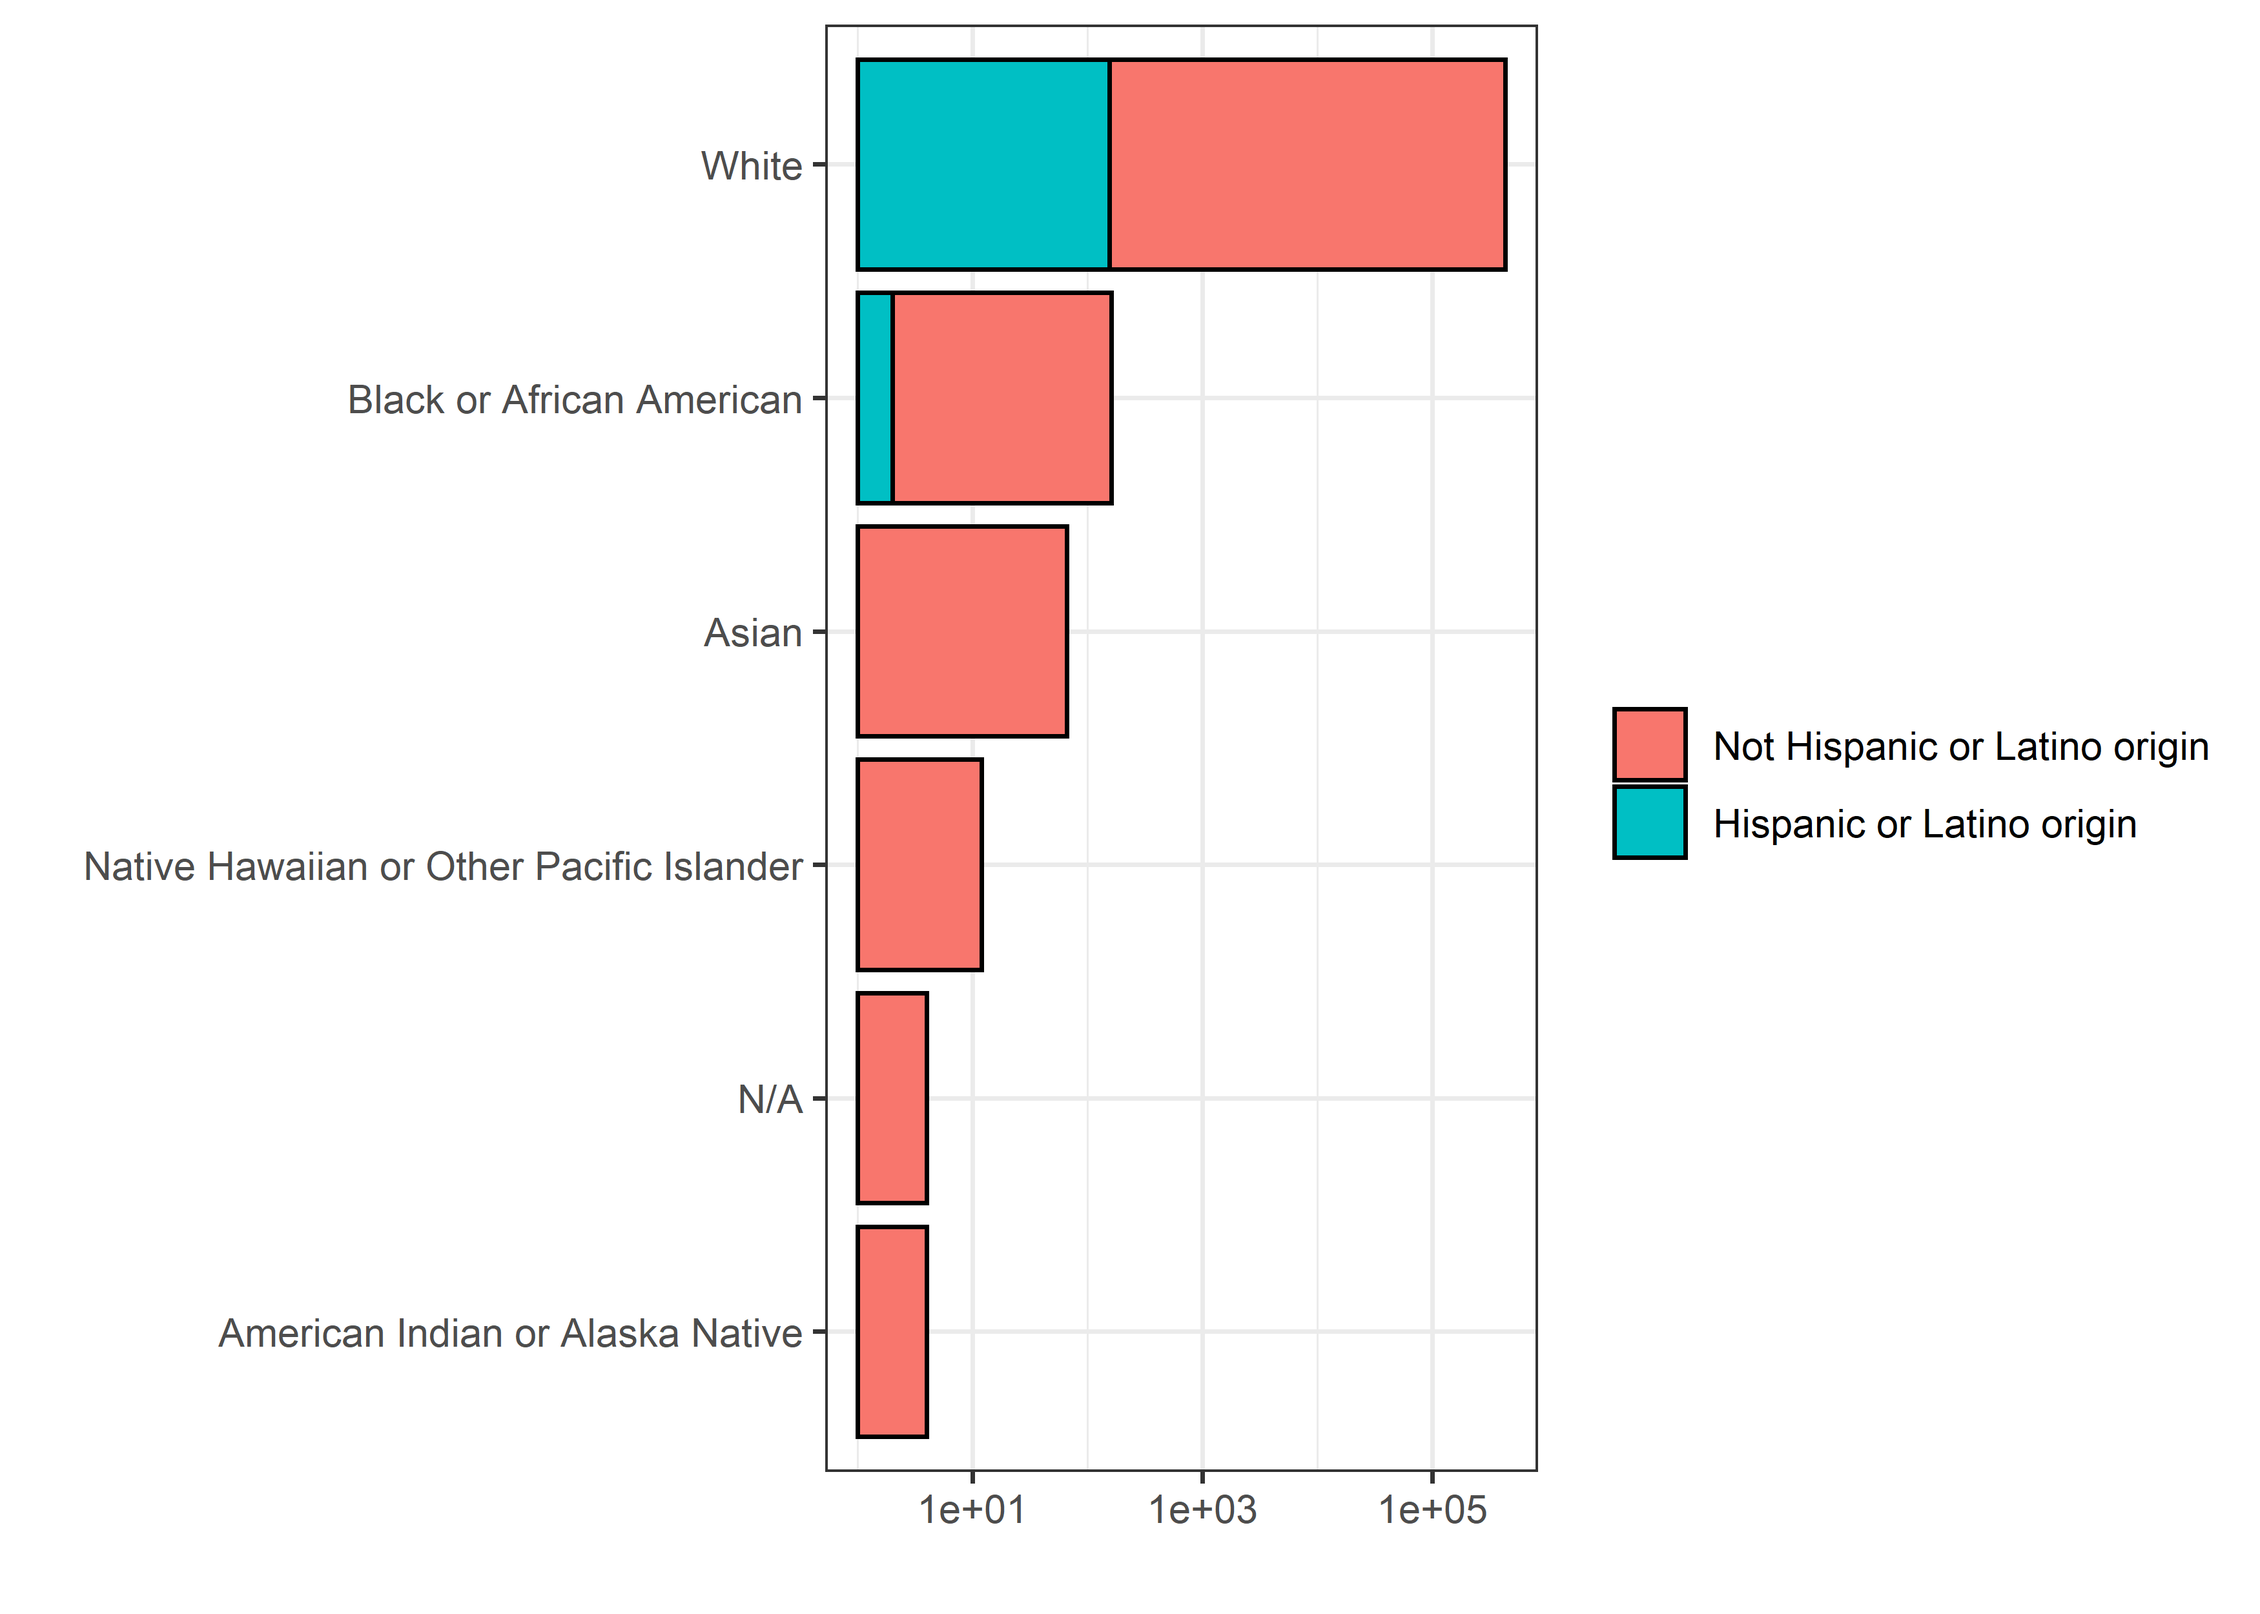
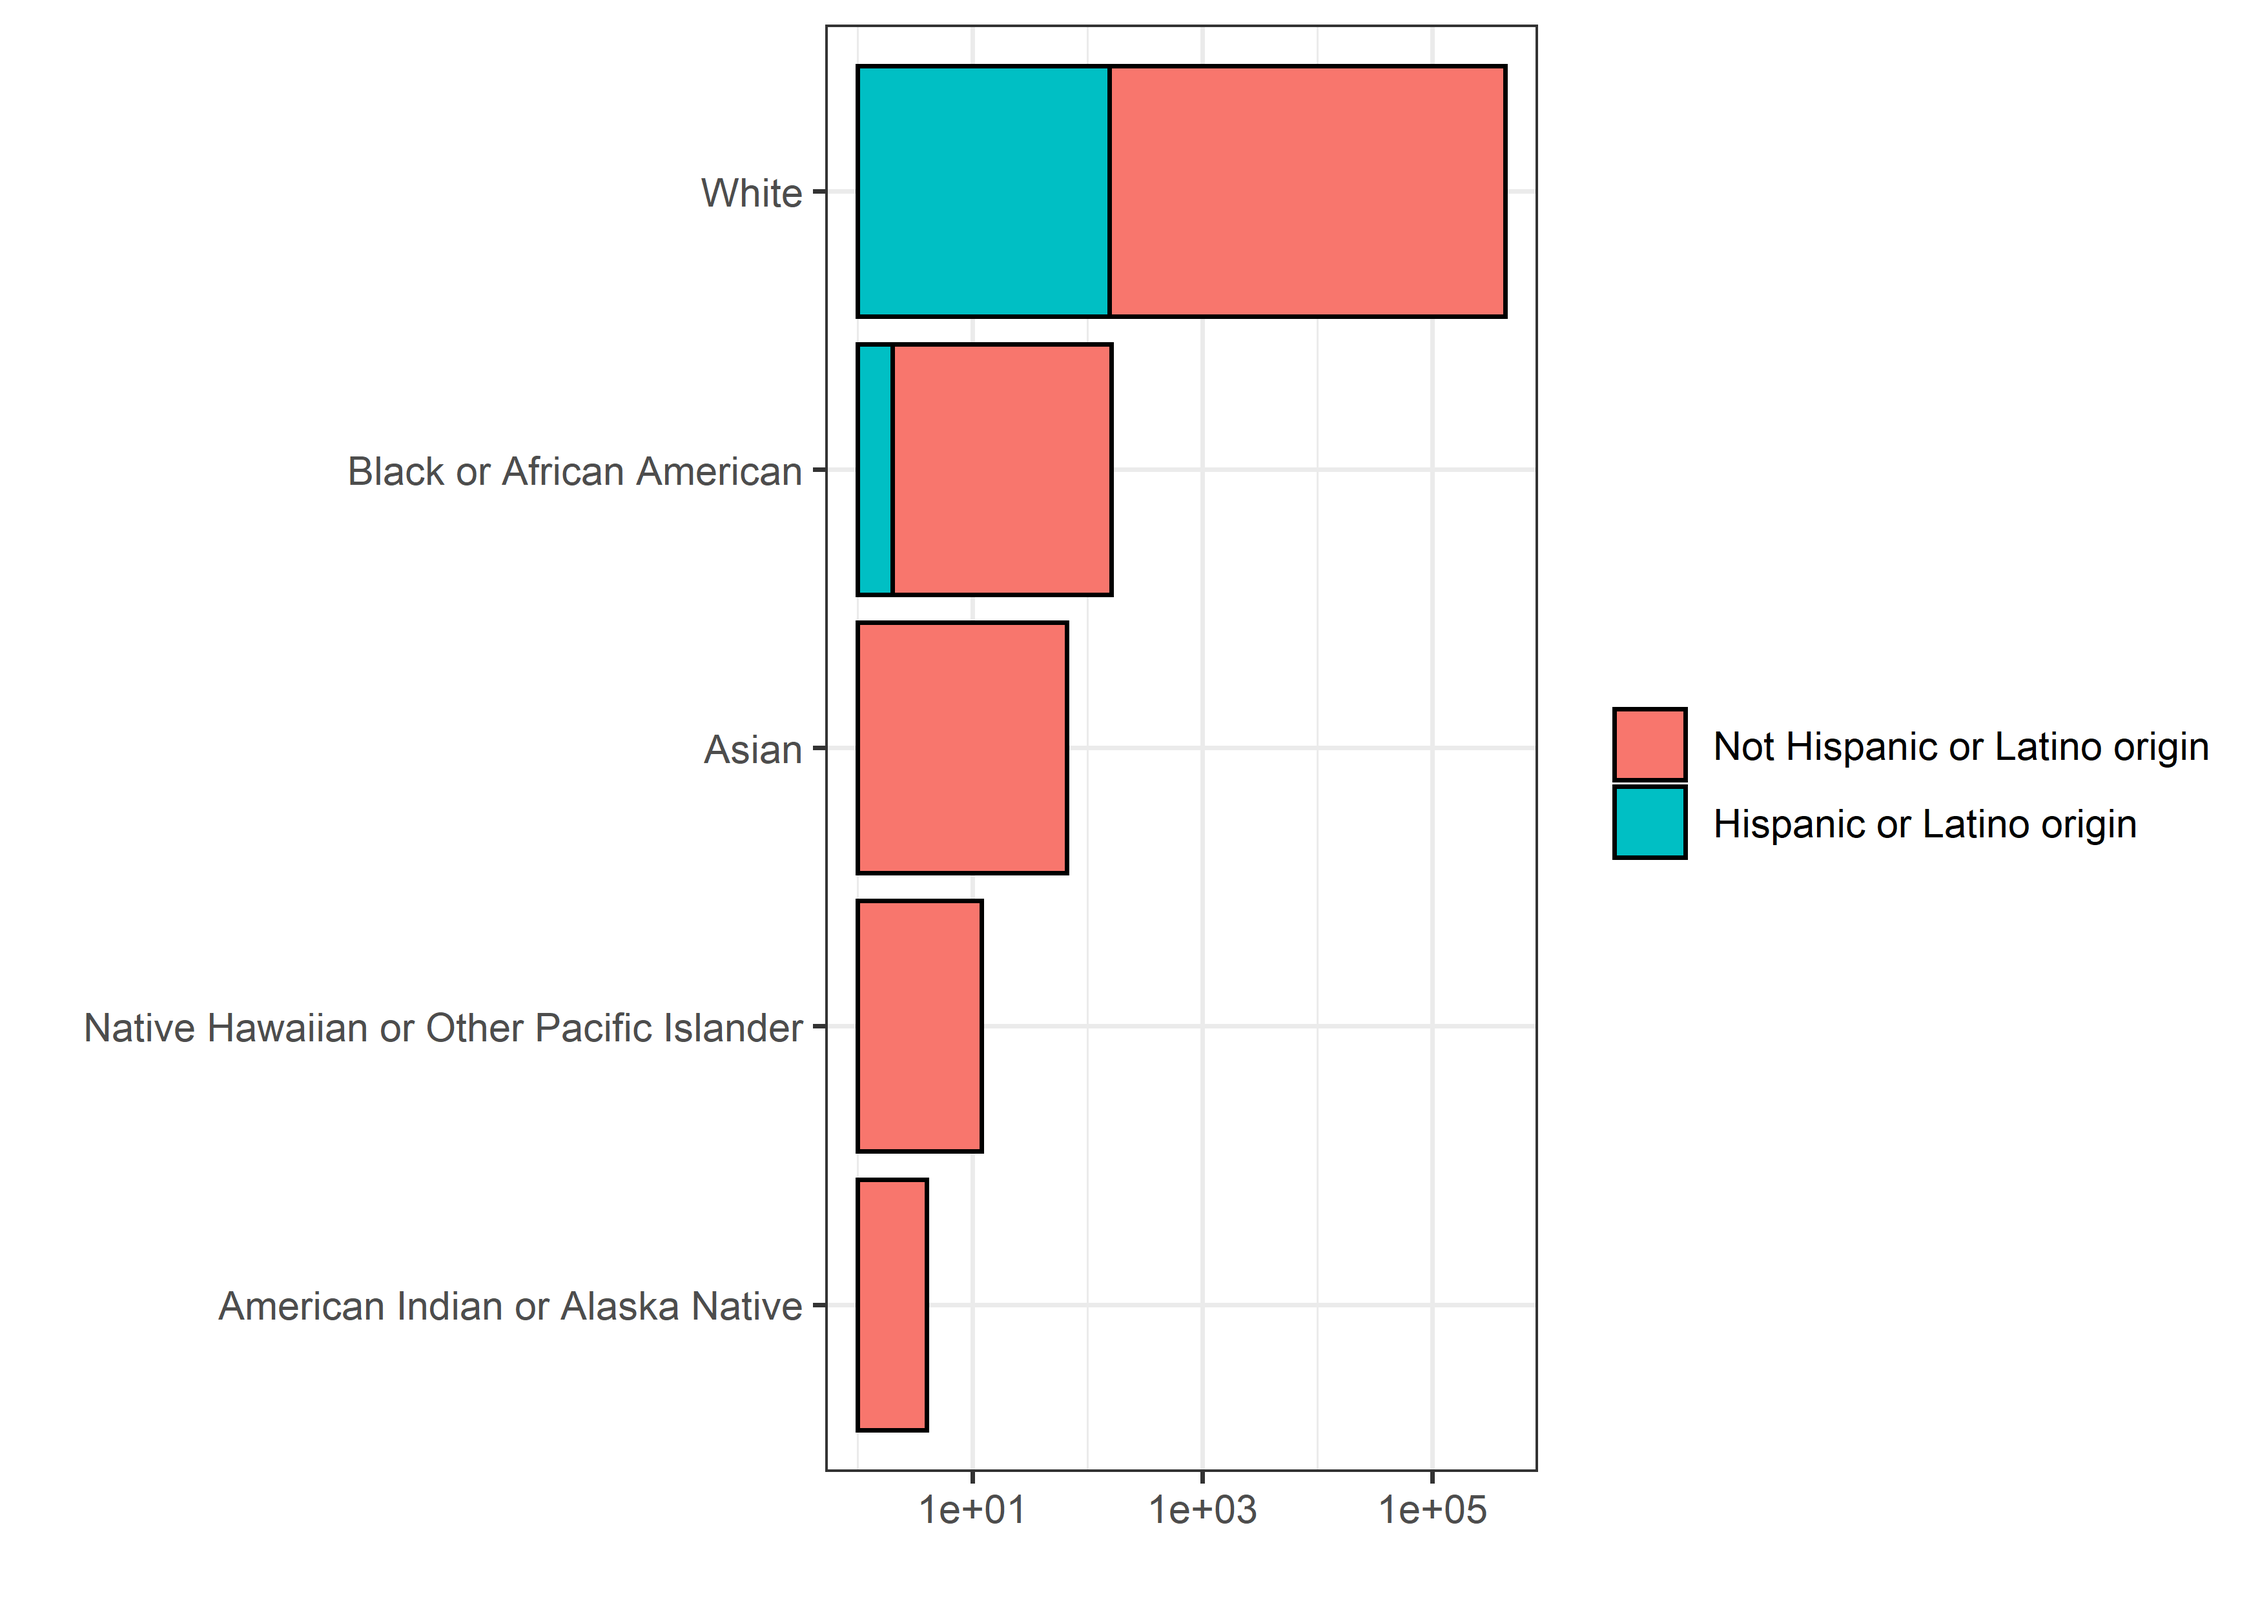
Years <-> Book

diff --git a/01-17-23/Artist-History.md b/01-17-23/Artist-History.md
@@ -9,6 +9,8 @@ Matthew
 -   <a href="#exploratory-data-analysis"
     id="toc-exploratory-data-analysis">Exploratory Data Analysis</a>
     -   <a href="#race" id="toc-race">Race</a>
+        -   <a href="#years" id="toc-years">Years</a>
+        -   <a href="#book" id="toc-book">Book</a>
 
 ``` r
 artist <- read_csv('https://raw.githubusercontent.com/rfordatascience/tidytuesday/master/data/2023/2023-01-17/artists.csv')
@@ -95,30 +97,13 @@ artist %>%
 as missing data.
 
 ``` r
-artist %>% 
+artist <- artist %>% 
   mutate(race = ifelse(race == "N/A", NA, race))
 ```
 
-    ## # A tibble: 3,162 x 14
-    ##    name           edition_number  year nationality nationality_oth~ gender race 
-    ##    <chr>                   <dbl> <dbl> <chr>       <chr>            <chr>  <chr>
-    ##  1 Aaron Douglas               9  1991 American    American         Male   Blac~
-    ##  2 Aaron Douglas              10  1996 American    American         Male   Blac~
-    ##  3 Aaron Douglas              11  2001 American    American         Male   Blac~
-    ##  4 Aaron Douglas              12  2005 American    American         Male   Blac~
-    ##  5 Aaron Douglas              13  2009 American    American         Male   Blac~
-    ##  6 Aaron Douglas              14  2013 American    American         Male   Blac~
-    ##  7 Aaron Douglas              15  2016 American    American         Male   Blac~
-    ##  8 Aaron Douglas              16  2020 American    American         Male   Blac~
-    ##  9 Adélaïde Labi~             14  2013 French      French           Female White
-    ## 10 Adélaïde Labi~             15  2016 French      French           Female White
-    ## # ... with 3,152 more rows, and 7 more variables: ethnicity <chr>, book <chr>,
-    ## #   space_ratio_per_page_total <dbl>, unique_id <dbl>,
-    ## #   moma_count_to_year <dbl>, whitney_count_to_year <dbl>, race_nwi <chr>
-
 # Exploratory Data Analysis
 
-### Race
+## Race
 
 ``` r
 artist %>% 
@@ -133,12 +118,16 @@ artist %>%
 
 ![](Artist-History_files/figure-gfm/unnamed-chunk-5-1.png)<!-- -->
 
+### Years
+
 ``` r
 artist %>% 
+  drop_na() %>% 
   group_by(year) %>% 
   count(race) %>% 
   ggplot(aes(year, n, color = race)) +
-  geom_line()
+  geom_line() +
+  labs(title = "Art Publications", x = "Year", y = "", color = "")
 ```
 
 ![](Artist-History_files/figure-gfm/unnamed-chunk-6-1.png)<!-- -->
@@ -147,7 +136,46 @@ artist %>%
 artist %>% 
   drop_na() %>% 
   ggplot(aes(year, fill = race, color = race)) +
-  geom_density(alpha = 0.5)
+  geom_density(alpha = 0.5) +
+  labs(title = "Proportion of Publications of each Race",
+       x = "Year", y = "")
 ```
 
 ![](Artist-History_files/figure-gfm/unnamed-chunk-6-2.png)<!-- -->
+
+``` r
+artist %>% 
+  filter(race_nwi == "Non-White") %>% 
+  group_by(year) %>% 
+  count(book) %>% 
+  ggplot(aes(year, n, color = book)) +
+  geom_line()
+```
+
+![](Artist-History_files/figure-gfm/unnamed-chunk-7-1.png)<!-- -->
+
+``` r
+artist %>% 
+  ggplot(aes(fill = book, x = race_nwi)) +
+  geom_bar(position = "fill") +
+  scale_y_continuous(label = percent_format())
+```
+
+![](Artist-History_files/figure-gfm/unnamed-chunk-7-2.png)<!-- -->
+
+### Book
+
+``` r
+artist %>% 
+  count(race_nwi, book) %>% 
+  group_by(race_nwi) %>% 
+  mutate(pct = n/sum(n)) %>% 
+  ggplot(aes(x = race_nwi, y = pct, fill = fct_rev(book), label = percent(pct))) + 
+  geom_col(position = 'fill') + 
+  geom_text(position = "fill", size = 4, vjust = 2) + 
+  scale_y_continuous(labels = percent) +
+  scale_fill_manual(values = c("steelblue2", "green3")) +
+  labs(y = "", x = "", fill = "", title = "Where Non-Whites Publish Art") 
+```
+
+![](Artist-History_files/figure-gfm/unnamed-chunk-8-1.png)<!-- -->
